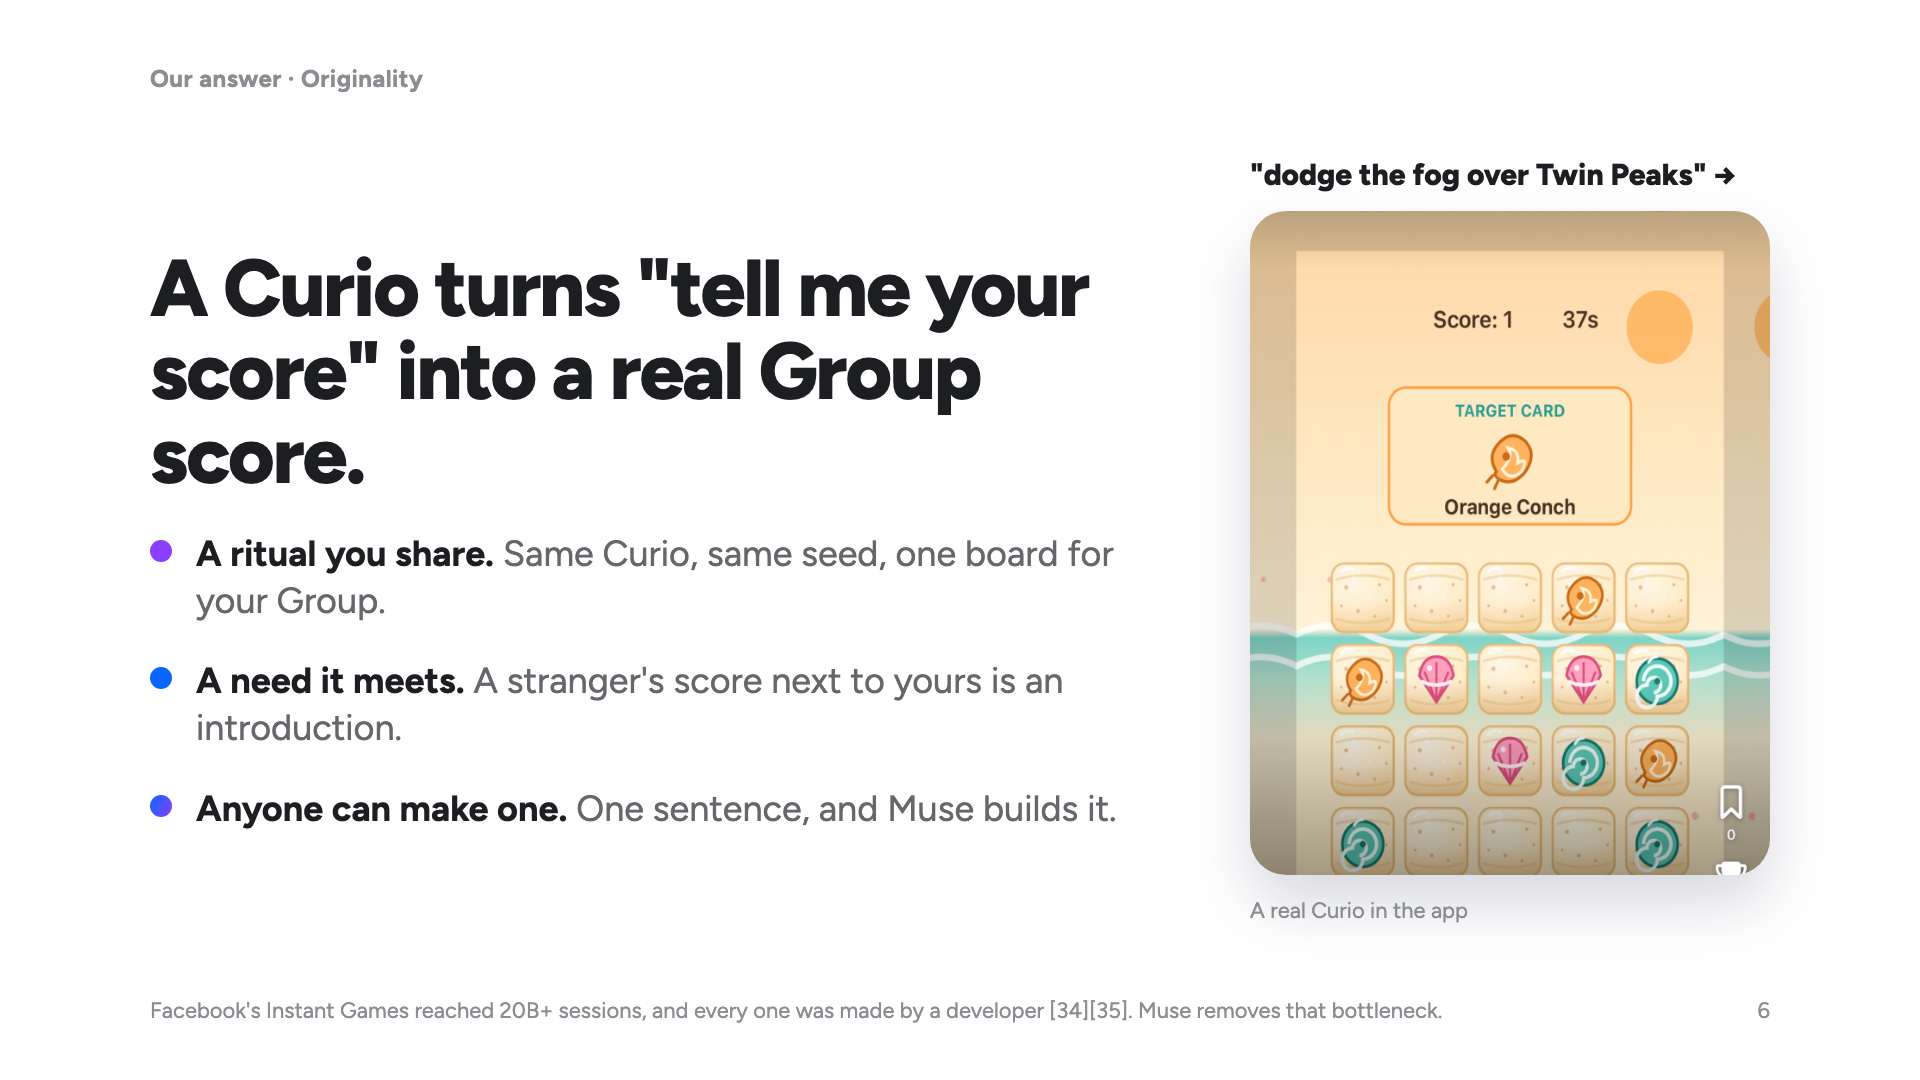
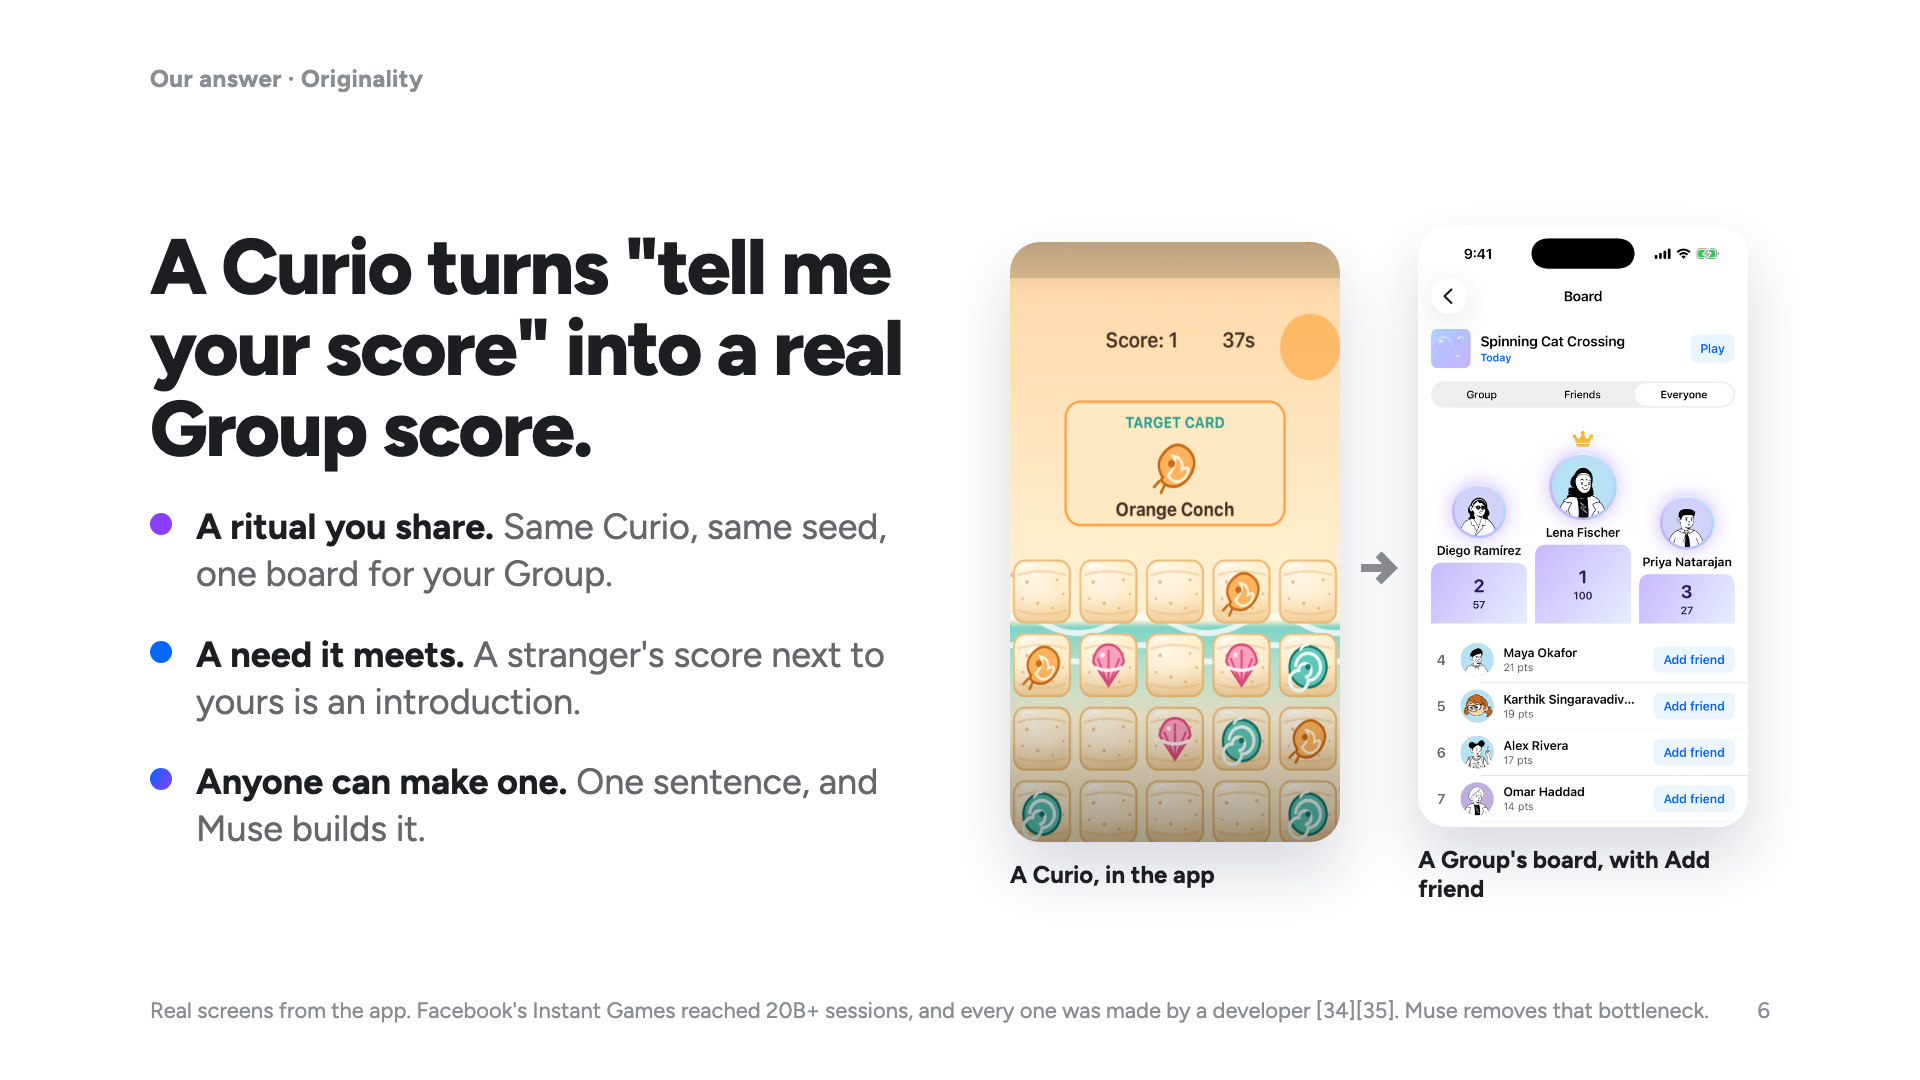
Pitch slide 6: a real in-app leaderboard next to the Curio, accurate captions

diff --git a/docs/pr/slides/deck.html b/docs/pr/slides/deck.html
@@ -329,6 +329,9 @@ h2 { font-size: 96px; line-height: 1.04; font-weight: 800; letter-spacing: -.025
 .mmrow { display: flex; gap: 24px; } .mmrow figure { width: 190px; } .mmrow img { width: 190px; height: 330px; object-fit: cover; object-position: top; border-radius: 18px; display: block; box-shadow: 0 16px 32px rgba(16,24,64,.16); }
 .mmrow figcaption { font-size: 18px; color: var(--sub); line-height: 1.3; margin-top: 10px; font-weight: 500; } .mmrow figcaption b { display: block; color: var(--ink); font-size: 20px; }
 .wf .cd p { font-size: 26px; line-height: 1.35; } .wf .cd b { font-size: 34px; } .wf .cd em { font-size: 22px; }
+.bpic.two { width: 760px; display: flex; flex-direction: column; flex: none; } .bridge .btxt { flex: 1; min-width: 0; } .bridge .btxt h2 { font-size: 78px; } .bq { white-space: nowrap; } .bridge .brow { gap: 70px; } .pair { display: flex; align-items: center; gap: 18px; }
+.pair figure { margin: 0; } .pair .cshot { width: 330px; height: 600px; border-radius: 30px; } .pair .cshot.lb { object-position: top; object-fit: cover; } .pair figure { width: 330px; }
+.pair figcaption { font-size: 24px; font-weight: 700; margin-top: 14px; color: var(--ink); } .parr { font-size: 56px; font-weight: 800; color: var(--muted); }
 </style>
 </head>
 <body>
@@ -430,9 +433,9 @@ h2 { font-size: 96px; line-height: 1.04; font-weight: 800; letter-spacing: -.025
       <div class="bl"><i class="db"></i><p><b>A need it meets.</b> A stranger's score next to yours is an introduction.</p></div>
       <div class="bl"><i class="dg"></i><p><b>Anyone can make one.</b> One sentence, and Muse builds it.</p></div>
     </div>
-    <div class="bpic"><div class="bq">"dodge the fog over Twin Peaks" →</div><img class="cshot" src="img/curio-play.png" alt="A real Curio in the app"><div class="cap2">A real Curio in the app</div></div>
+    <div class="bpic two"><div class="pair"><figure><img class="cshot" src="img/curio-play.png" alt="A real Curio in the app"><figcaption>A Curio, in the app</figcaption></figure><span class="parr">→</span><figure><img class="cshot lb" src="img/app-leaderboard.png" alt="The Curio's leaderboard in the app"><figcaption>A Group's board, with Add friend</figcaption></figure></div></div>
   </div>
-  <div class="foot"><span>Facebook's Instant Games reached 20B+ sessions, and every one was made by a developer [34][35]. Muse removes that bottleneck.</span><span class="pg"></span></div>
+  <div class="foot"><span>Real screens from the app. Facebook's Instant Games reached 20B+ sessions, and every one was made by a developer [34][35]. Muse removes that bottleneck.</span><span class="pg"></span></div>
 </section>
 
 <section class="slide stack">
